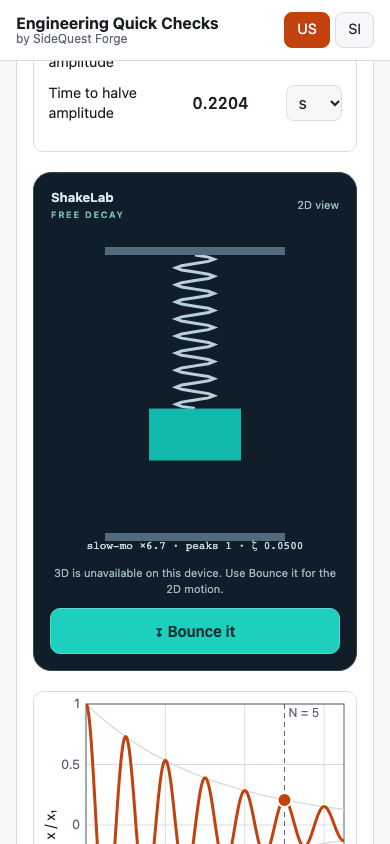
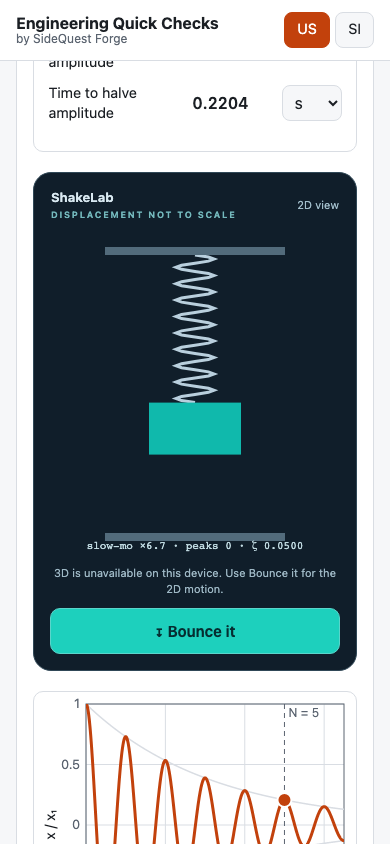
Label schematic motion and report bounce resets to native host

diff --git a/docs/sim/index.js b/docs/sim/index.js
@@ -3,7 +3,7 @@ import { webglOK, timeScale, timeLabel } from './support.js';
 
 export async function mountSim(container, { kind, drive, params, reducedMotion = matchMedia('(prefers-reduced-motion: reduce)').matches, onReady = () => {}, onPeak = () => {} }) {
   if (kind !== 'sdofRig' || drive !== 'freeDecay') throw new Error('Unknown simulation');
-  container.innerHTML = `<div class="sim-heading"><span>ShakeLab <small>FREE DECAY</small></span><span class="sim-mode">Loading rig…</span></div><div class="sim-stage"><canvas class="sim" aria-label="Spring and mass. Drag the teal block to release; drag empty space to orbit." role="img"></canvas><div class="sim-hud"></div></div><p class="sim-hint">Drag the block · orbit the space · pinch to zoom</p><button type="button" id="sim-release">↧ Bounce it</button>`;
+  container.innerHTML = `<div class="sim-heading"><span>ShakeLab <small>DISPLACEMENT NOT TO SCALE</small></span><span class="sim-mode">Loading rig…</span></div><div class="sim-stage"><canvas class="sim" aria-label="Spring and mass. Drag the teal block to release; drag empty space to orbit." role="img"></canvas><div class="sim-hud"></div></div><p class="sim-hint">Drag the block · orbit the space · pinch to zoom</p><button type="button" id="sim-release">↧ Bounce it</button>`;
   const canvas = container.querySelector('canvas'), hud = container.querySelector('.sim-hud');
   const mode = container.querySelector('.sim-mode'), button = container.querySelector('button');
   const stage = container.querySelector('.sim-stage');
@@ -11,7 +11,7 @@ export async function mountSim(container, { kind, drive, params, reducedMotion =
   let p, scale, width = 1, height = 1, canvas2d;
   function release(fraction = .3) {
     if (disposed || !valid || !Number.isFinite(fraction)) return;
-    x0 = Math.max(-.4, Math.min(.4, fraction)) * 1.65; x = x0; time = 0; peaks = 0; flash = 0; dragging = false; schedule();
+    x0 = Math.max(-.4, Math.min(.4, fraction)) * 1.65; x = x0; time = 0; peaks = 0; flash = 0; dragging = false; onPeak(0); schedule();
   }
   function update(next) {
     valid = !!next && Number.isFinite(next.fd) && next.fd > 0 && Number.isFinite(next.zeta) && next.zeta >= 0 && next.zeta < 1;

diff --git a/README.md b/README.md
@@ -43,12 +43,12 @@ Verification (from this repository; keep Python/browser caches in the task folde
 ```sh
 python3 -m venv .venv
 .venv/bin/pip install scipy pillow playwright
-PLAYWRIGHT_BROWSERS_PATH="$PWD/verification/browsers" .venv/bin/python -m playwright install chromium
+PLAYWRIGHT_BROWSERS_PATH="$PWD/build/browsers" .venv/bin/python -m playwright install chromium
 npm test
 .venv/bin/python tests/verify_physics.py
 python3 -m http.server 8765 -d docs
 # In another shell:
-PLAYWRIGHT_BROWSERS_PATH="$PWD/verification/browsers" .venv/bin/python tests/smoke.py
+PLAYWRIGHT_BROWSERS_PATH="$PWD/build/browsers" .venv/bin/python tests/smoke.py
 ```
 
 `verify_physics.py` independently recomputes all 30 supplied reference rows and compares 405
